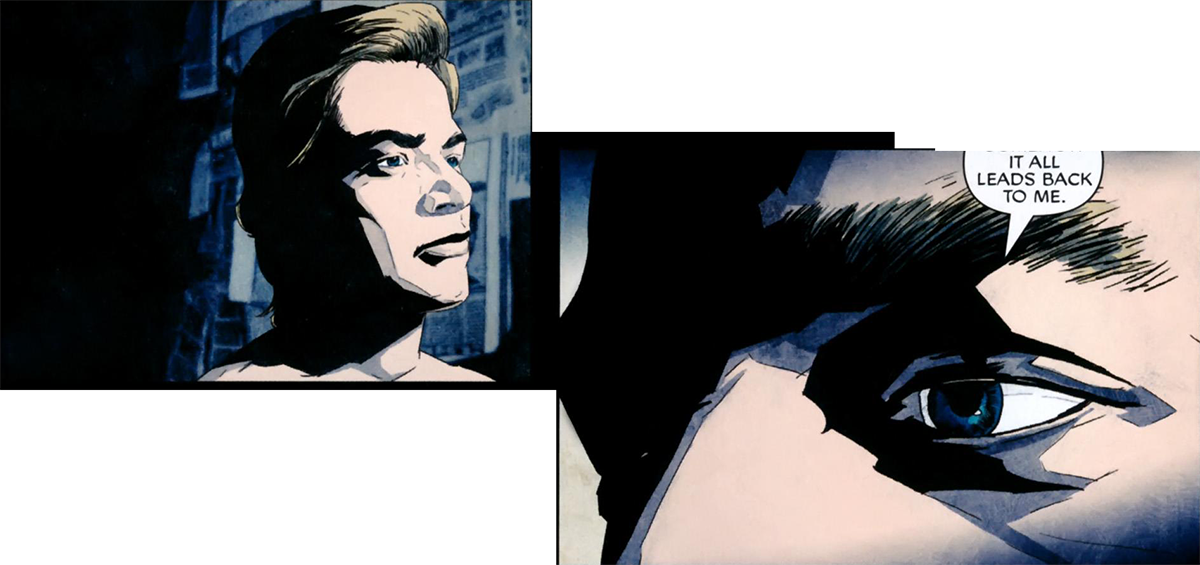
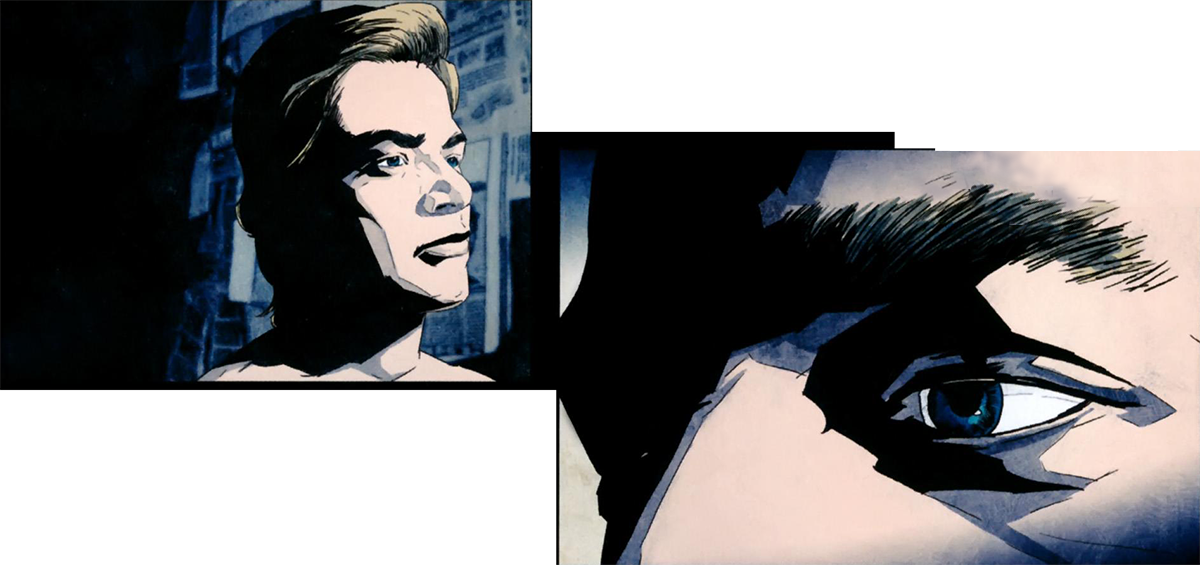
Added animated bubbles to 2nd page. 3 more to go.

Changed region(s): [[0.7708, 0.2407, 1.0, 0.4513]]

diff --git a/src/main/webapp/Who-Am-I-comics/css/who-am-i-bubbles.css b/src/main/webapp/Who-Am-I-comics/css/who-am-i-bubbles.css
@@ -1,0 +1,107 @@
+.B-figure-out {
+    position: relative;
+    top: 489px;
+    left: 721px;
+    width: 200px;
+    height: 374px;
+    background-image: url("../image/bubble-figure-out.png");
+    opacity: 0;
+}
+
+.B-figure-out-hovered {
+    position: relative;
+    top: 489px;
+    left: 721px;
+    width: 200px;
+    height: 374px;
+    background-image: url("../image/bubble-figure-out.png");
+    opacity: 1;
+    -webkit-transition: 2s ease;
+    -moz-transition: 2s ease;
+    -o-transition: 2s ease;
+    -ms-transition: 2s ease;
+    transition: 2s ease;
+}
+
+.B-figure-out-text {
+    position: relative;
+    top: 6px;
+    left: 75px;
+    width: 113px;
+    color: black;
+    font-family: unmasked_bb;
+    font-size: 14pt;
+    text-shadow: 0 0 1px rgba(0, 0, 0, 0.3);
+}
+
+.B-how-to-connect {
+    position: absolute;
+    top: 41px;
+    left: 91px;
+    width: 245px;
+    height: 120px;
+    background-image: url("../image/bubble-how-to-connect.png");
+    opacity: 0;
+}
+
+.B-how-to-connect-hovered {
+    position: absolute;
+    top: 41px;
+    left: 91px;
+    width: 245px;
+    height: 120px;
+    background-image: url("../image/bubble-how-to-connect.png");
+    opacity: 1;
+    -webkit-transition: 2s ease;
+    -moz-transition: 2s ease;
+    -o-transition: 2s ease;
+    -ms-transition: 2s ease;
+    transition: 2s ease;
+}
+
+.B-how-to-connect-text {
+    position: relative;
+    top: 10px;
+    left: 18px;
+    width: 113px;
+    color: black;
+    font-family: unmasked_bb;
+    font-size: 14pt;
+    text-shadow: 0 0 1px rgba(0, 0, 0, 0.3);
+}
+
+.B-leads-back {
+    position: relative;
+    top: 92px;
+    left: 959px;
+    width: 147px;
+    height: 160px;
+    background-image: url("../image/bubble-leads-back.png");
+    opacity: 0;
+}
+
+.B-leads-back-hovered {
+    position: relative;
+    top: 92px;
+    left: 959px;
+    width: 147px;
+    height: 160px;
+    background-image: url("../image/bubble-leads-back.png");
+    opacity: 1;
+    -webkit-transition: 2s ease;
+    -moz-transition: 2s ease;
+    -o-transition: 2s ease;
+    -ms-transition: 2s ease;
+    transition: 2s ease;
+}
+
+.B-leads-back-text {
+    position: relative;
+    top: 8px;
+    left: 18px;
+    width: 113px;
+    color: black;
+    font-family: unmasked_bb;
+    font-size: 14pt;
+    text-shadow: 0 0 1px rgba(0, 0, 0, 0.3);
+}

diff --git a/src/main/webapp/Who-Am-I-comics/who-am-i.html b/src/main/webapp/Who-Am-I-comics/who-am-i.html
@@ -4,6 +4,7 @@
     <title>who am i - page 2/5</title>
     <link rel="stylesheet" type="text/css" href="css/comics-pages.css"/>
     <link rel="stylesheet" type="text/css" href="css/who-am-i-frames.css"/>
+    <link rel="stylesheet" type="text/css" href="css/who-am-i-bubbles.css"/>
     <script type="text/javascript" src="js/fading.js"></script>
 </head>
 <body>
@@ -19,9 +20,32 @@
             </a>
         </div>
         <div class="page-who-am-i">
-            <div class="who-am-i"></div>
-            <div class="staring"></div>
-            <div class="leads-back"></div>
+            <div class="who-am-i" onmouseover="fadeIn('b-figure-out')">
+                <div id="b-figure-out" class="B-figure-out">
+                    <div class="B-figure-out-text">
+                        I just<br />
+                        have to figure out how to unlock them.
+                    </div>
+                </div>
+            </div>
+            <div class="staring" onmouseover="fadeIn('b-how-to-connect')">
+                <div class="staring-dark"></div>
+                <div id="b-how-to-connect" class="B-how-to-connect">
+                    <div class="B-how-to-connect-text">
+                        How to connect all these events and people.
+                    </div>
+                </div>
+            </div>
+            <div class="leads-back" onmouseover="fadeIn('b-leads-back')">
+                <div id="b-leads-back" class="B-leads-back">
+                    <div class="B-leads-back-text">
+                        Because<br />
+                        somehow<br />
+                        it all<br />
+                        leads back to me.
+                    </div>
+                </div>
+            </div>
             <div class="turn"></div>
         </div>
     </div>

diff --git a/src/main/webapp/Who-Am-I-comics/css/who-am-i-frames.css b/src/main/webapp/Who-Am-I-comics/css/who-am-i-frames.css
@@ -21,8 +21,31 @@
     background-image: url("../image/staring-01.jpg");
 }
 
-.staring:hover {
+.staring-dark {
+    position: relative;
+    width: 1200px;
+    height: 709px;
     background-image: url("../image/staring-dark-01.jpg");
+    -moz-animation: blinking 2s;
+    -webkit-animation: blinking 2s;
+    -webkit-animation-iteration-count: infinite;
+    -webkit-animation-timing-function: linear;
+    -o-animation: blinking 2s;
+}
+
+@-webkit-keyframes blinking {
+    0%  { opacity: 0; }
+    20% { opacity: 0; }
+    21% { opacity: 1; }
+    30% { opacity: 1; }
+    31% { opacity: 0; }
+    70% { opacity: 0; }
+    71% { opacity: 1; }
+    75% { opacity: 1; }
+    76% { opacity: 0; }
+    81% { opacity: 0; }
+    82% { opacity: 1; }
+    99% { opacity: 1; }
 }
 
 .leads-back {
